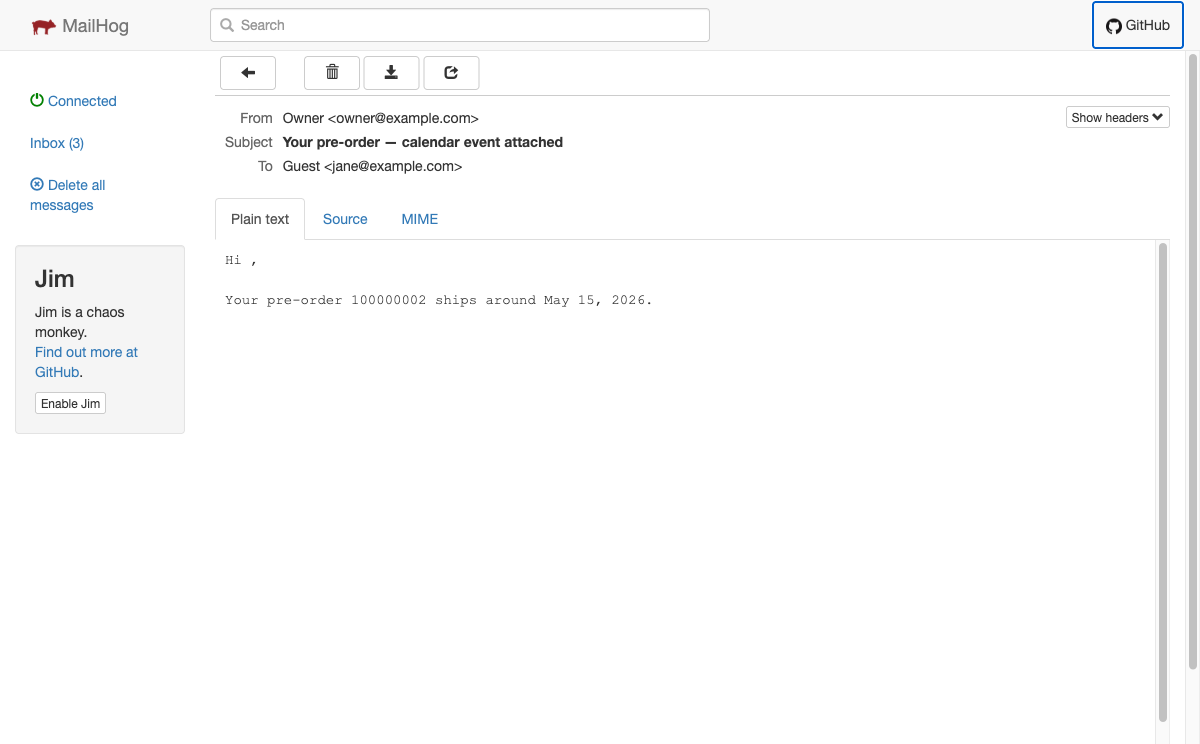
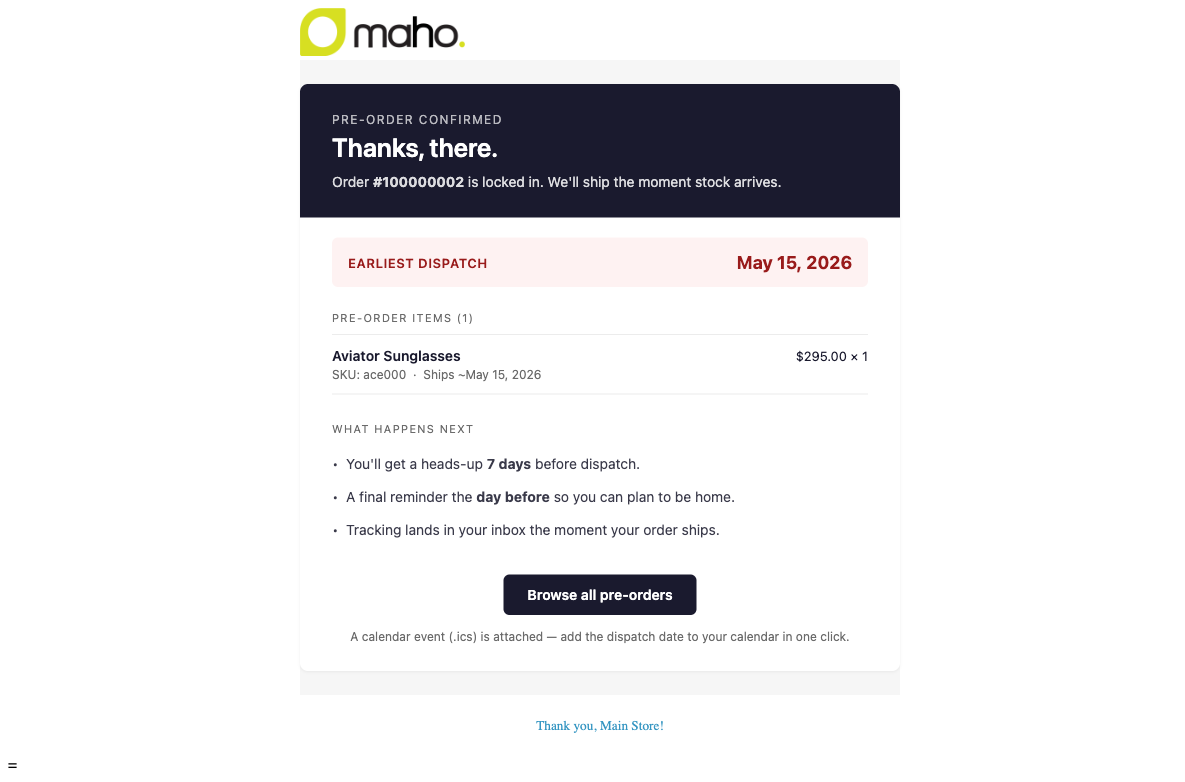
feat(email): branded HTML templates + fix cart label placement + misc polish
Email templates
- Register confirmation + reminder_7d + reminder_1d in config.xml <global/template/email>.
  Without this, loadDefault() returned an empty template and every preorder
  send fell through to the bare-text fallback.
- Rewrite all three templates with a proper hero band, dispatch callout,
  items list, "what happens next" and CTA button. Honest wording — no
  "confirm your address" promises, since the module doesn't expose an
  address-confirmation surface.
- Pre-render the items list server-side (Maho's template filter doesn't
  support {{foreach}}).
- Use the template's @subject directive and pass customer as Varien_Object
  so {{var customer.firstname}} resolves cleanly.

Cart label
- Inject the label INSIDE the product-cart-info <td> (not appended after the
  row). Uses inline HTML instead of createBlock(), which was registering an
  orphan block in the layout that parent blocks were rendering twice.
- Label itself is now a rounded chip, consistent with the PDP/category badge.

Screenshots
- Drop 00-admin-login.png and 07-order-success.png (not informative).
- Refresh 06-cart-label.png and 10-mailhog-preorder-email.png.

diff --git a/src/app/locale/en_US/template/email/preorder/confirmation.html b/src/app/locale/en_US/template/email/preorder/confirmation.html
@@ -1,21 +1,63 @@
-<!--@subject Your Pre-order Confirmation @-->
+<!--@subject Your pre-order is confirmed - ships {{var earliest_dispatch_formatted}} @-->
 <!--@vars
 {
-  "store url=\"\"":"Store Url",
-  "var customer.firstname":"Customer First Name",
+  "var customer.firstname":"Customer first name",
   "var order.increment_id":"Order ID",
-  "var earliest_dispatch_formatted":"Earliest dispatch date"
+  "var earliest_dispatch_formatted":"Earliest dispatch (formatted)",
+  "var preorder_items_count":"Number of preorder line items",
+  "var store_name":"Store name",
+  "var store_url":"Store base URL",
+  "var preorder_landing_url":"/preorder landing URL"
 }
 @-->
 {{template config_path="design/email/header"}}
 
-<table cellspacing="0" cellpadding="0" border="0" width="100%">
-<tr><td>
-<h1>Hi {{var customer.firstname}},</h1>
-<p>Thanks for your pre-order ({{var order.increment_id}}).</p>
-<p>Your earliest expected dispatch date is <strong>{{var earliest_dispatch_formatted}}</strong>.</p>
-<p>We'll notify you 7 days before, 1 day before, and the day your pre-order ships.</p>
-<p>A calendar event (.ics) is attached so you can add the dispatch date to your calendar.</p>
+<table role="presentation" cellspacing="0" cellpadding="0" border="0" width="100%" style="background:#f6f6f6;font-family:-apple-system,BlinkMacSystemFont,'Segoe UI',Helvetica,Arial,sans-serif;color:#1a1a2e;">
+<tr><td align="center">
+  <table role="presentation" cellspacing="0" cellpadding="0" border="0" width="600" style="max-width:600px;background:#ffffff;margin:24px auto;border-radius:8px;overflow:hidden;box-shadow:0 1px 3px rgba(0,0,0,0.06);">
+
+    <!-- Hero band -->
+    <tr><td style="background:#1a1a2e;color:#ffffff;padding:28px 32px;">
+      <div style="font-size:12px;letter-spacing:0.12em;text-transform:uppercase;opacity:0.7;margin-bottom:6px;">Pre-order confirmed</div>
+      <div style="font-size:26px;font-weight:600;line-height:1.2;">Thanks, {{var customer.firstname}}.</div>
+      <div style="font-size:14px;opacity:0.85;margin-top:10px;">Order <strong>#{{var order.increment_id}}</strong> is locked in. We'll ship the moment stock arrives.</div>
+    </td></tr>
+
+    <!-- Dispatch callout -->
+    <tr><td style="padding:20px 32px 0;">
+      <table role="presentation" cellspacing="0" cellpadding="0" border="0" width="100%" style="background:#fef2f2;border-radius:6px;">
+        <tr>
+          <td style="padding:14px 16px;font-size:13px;color:#991b1b;font-weight:600;letter-spacing:0.04em;text-transform:uppercase;">Earliest dispatch</td>
+          <td align="right" style="padding:14px 16px;font-size:18px;color:#991b1b;font-weight:700;">{{var earliest_dispatch_formatted}}</td>
+        </tr>
+      </table>
+    </td></tr>
+
+    <!-- Items list (rendered server-side, see Observer::onOrderPlaceAfter) -->
+    <tr><td style="padding:24px 32px 8px;">
+      <div style="font-size:11px;letter-spacing:0.12em;text-transform:uppercase;color:#6b6b6b;margin-bottom:10px;">Pre-order items ({{var preorder_items_count}})</div>
+      <table role="presentation" cellspacing="0" cellpadding="0" border="0" width="100%" style="border-top:1px solid #ececec;">
+        {{var preorder_items_html}}
+      </table>
+    </td></tr>
+
+    <!-- What happens next -->
+    <tr><td style="padding:20px 32px;">
+      <div style="font-size:11px;letter-spacing:0.12em;text-transform:uppercase;color:#6b6b6b;margin-bottom:12px;">What happens next</div>
+      <table role="presentation" cellspacing="0" cellpadding="0" border="0" width="100%" style="font-size:14px;color:#3a3a4a;line-height:1.5;">
+        <tr><td style="padding:6px 0;">&#8226;&nbsp; You'll get a heads-up <strong>7 days</strong> before dispatch.</td></tr>
+        <tr><td style="padding:6px 0;">&#8226;&nbsp; A final reminder the <strong>day before</strong> so you can plan to be home.</td></tr>
+        <tr><td style="padding:6px 0;">&#8226;&nbsp; Tracking lands in your inbox the moment your order ships.</td></tr>
+      </table>
+    </td></tr>
+
+    <!-- CTA + calendar -->
+    <tr><td align="center" style="padding:8px 32px 28px;">
+      <a href="{{var preorder_landing_url}}" style="display:inline-block;background:#1a1a2e;color:#ffffff;text-decoration:none;font-size:14px;font-weight:600;padding:12px 24px;border-radius:6px;">Browse all pre-orders</a>
+      <div style="font-size:12px;color:#6b6b6b;margin-top:14px;">A calendar event (.ics) is attached &mdash; add the dispatch date to your calendar in one click.</div>
+    </td></tr>
+
+  </table>
 </td></tr>
 </table>
 

diff --git a/src/app/locale/en_US/template/email/preorder/reminder_7d.html b/src/app/locale/en_US/template/email/preorder/reminder_7d.html
@@ -1,8 +1,53 @@
-<!--@subject Your pre-order ships in 7 days @-->
+<!--@subject Coming up - {{var product.name}} ships in 7 days @-->
+<!--@vars
+{
+  "var customer.firstname":"Customer first name",
+  "var product.name":"Product name",
+  "var product.sku":"Product SKU",
+  "var dispatch_date_formatted":"Dispatch date",
+  "var order.increment_id":"Order ID",
+  "var preorder_landing_url":"/preorder landing URL"
+}
+@-->
 {{template config_path="design/email/header"}}
 
-<h1>Hi {{var customer.firstname}},</h1>
-<p>Your pre-ordered <strong>{{var product.name}}</strong> is shipping in about 7 days ({{var dispatch_date_formatted}}).</p>
-<p>Order: {{var order.increment_id}}</p>
+<table role="presentation" cellspacing="0" cellpadding="0" border="0" width="100%" style="background:#f6f6f6;font-family:-apple-system,BlinkMacSystemFont,'Segoe UI',Helvetica,Arial,sans-serif;color:#1a1a2e;">
+<tr><td align="center">
+  <table role="presentation" cellspacing="0" cellpadding="0" border="0" width="600" style="max-width:600px;background:#ffffff;margin:24px auto;border-radius:8px;overflow:hidden;box-shadow:0 1px 3px rgba(0,0,0,0.06);">
+
+    <tr><td style="background:#1a1a2e;color:#ffffff;padding:28px 32px;">
+      <div style="font-size:12px;letter-spacing:0.12em;text-transform:uppercase;opacity:0.7;margin-bottom:6px;">7-day heads-up</div>
+      <div style="font-size:26px;font-weight:600;line-height:1.2;">Hi {{var customer.firstname}},</div>
+      <div style="font-size:14px;opacity:0.85;margin-top:10px;">Your pre-order ships in about a week.</div>
+    </td></tr>
+
+    <tr><td style="padding:24px 32px;">
+      <table role="presentation" cellspacing="0" cellpadding="0" border="0" width="100%" style="border:1px solid #ececec;border-radius:6px;">
+        <tr><td style="padding:16px;">
+          <div style="font-size:15px;font-weight:600;color:#1a1a2e;">{{var product.name}}</div>
+          <div style="font-size:12px;color:#6b6b6b;margin-top:6px;">SKU: {{var product.sku}} &nbsp;&middot;&nbsp; Order #{{var order.increment_id}}</div>
+        </td></tr>
+        <tr><td style="padding:14px 16px;background:#fef2f2;border-top:1px solid #ececec;">
+          <table role="presentation" cellspacing="0" cellpadding="0" border="0" width="100%">
+            <tr>
+              <td style="font-size:12px;color:#991b1b;font-weight:600;letter-spacing:0.04em;text-transform:uppercase;">Estimated dispatch</td>
+              <td align="right" style="font-size:16px;color:#991b1b;font-weight:700;">{{var dispatch_date_formatted}}</td>
+            </tr>
+          </table>
+        </td></tr>
+      </table>
+    </td></tr>
+
+    <tr><td style="padding:0 32px 16px;font-size:14px;color:#3a3a4a;line-height:1.5;">
+      We'll send tracking the moment it ships. If anything about your order needs to change, reply to this email and we'll sort it.
+    </td></tr>
+
+    <tr><td align="center" style="padding:8px 32px 28px;">
+      <a href="{{var preorder_landing_url}}" style="display:inline-block;background:#1a1a2e;color:#ffffff;text-decoration:none;font-size:14px;font-weight:600;padding:12px 24px;border-radius:6px;">Browse pre-orders</a>
+    </td></tr>
+
+  </table>
+</td></tr>
+</table>
 
 {{template config_path="design/email/footer"}}

diff --git a/src/app/locale/en_US/template/email/preorder/reminder_1d.html b/src/app/locale/en_US/template/email/preorder/reminder_1d.html
@@ -1,8 +1,49 @@
-<!--@subject Your pre-order ships tomorrow @-->
+<!--@subject Tomorrow - your {{var product.name}} ships @-->
+<!--@vars
+{
+  "var customer.firstname":"Customer first name",
+  "var product.name":"Product name",
+  "var product.sku":"Product SKU",
+  "var dispatch_date_formatted":"Dispatch date",
+  "var order.increment_id":"Order ID",
+  "var preorder_landing_url":"/preorder landing URL"
+}
+@-->
 {{template config_path="design/email/header"}}
 
-<h1>Hi {{var customer.firstname}},</h1>
-<p>Heads up — your pre-ordered <strong>{{var product.name}}</strong> ships tomorrow ({{var dispatch_date_formatted}}).</p>
-<p>Order: {{var order.increment_id}}</p>
+<table role="presentation" cellspacing="0" cellpadding="0" border="0" width="100%" style="background:#f6f6f6;font-family:-apple-system,BlinkMacSystemFont,'Segoe UI',Helvetica,Arial,sans-serif;color:#1a1a2e;">
+<tr><td align="center">
+  <table role="presentation" cellspacing="0" cellpadding="0" border="0" width="600" style="max-width:600px;background:#ffffff;margin:24px auto;border-radius:8px;overflow:hidden;box-shadow:0 1px 3px rgba(0,0,0,0.06);">
+
+    <tr><td style="background:#991b1b;color:#ffffff;padding:28px 32px;">
+      <div style="font-size:12px;letter-spacing:0.12em;text-transform:uppercase;opacity:0.85;margin-bottom:6px;">Ships tomorrow</div>
+      <div style="font-size:26px;font-weight:600;line-height:1.2;">Hi {{var customer.firstname}},</div>
+      <div style="font-size:14px;opacity:0.9;margin-top:10px;">Last call to confirm your delivery details.</div>
+    </td></tr>
+
+    <tr><td style="padding:24px 32px;">
+      <table role="presentation" cellspacing="0" cellpadding="0" border="0" width="100%" style="border:1px solid #ececec;border-radius:6px;">
+        <tr><td style="padding:16px;">
+          <div style="font-size:15px;font-weight:600;color:#1a1a2e;">{{var product.name}}</div>
+          <div style="font-size:12px;color:#6b6b6b;margin-top:6px;">SKU: {{var product.sku}} &nbsp;&middot;&nbsp; Order #{{var order.increment_id}}</div>
+        </td></tr>
+        <tr><td style="padding:14px 16px;background:#1a1a2e;color:#ffffff;border-top:1px solid #ececec;">
+          <table role="presentation" cellspacing="0" cellpadding="0" border="0" width="100%">
+            <tr>
+              <td style="font-size:12px;font-weight:600;letter-spacing:0.04em;text-transform:uppercase;opacity:0.85;">Dispatch</td>
+              <td align="right" style="font-size:16px;font-weight:700;">{{var dispatch_date_formatted}}</td>
+            </tr>
+          </table>
+        </td></tr>
+      </table>
+    </td></tr>
+
+    <tr><td style="padding:0 32px 24px;font-size:14px;color:#3a3a4a;line-height:1.5;">
+      Tracking will land in your inbox tomorrow once the carrier picks up. Thanks for waiting &mdash; we appreciate it.
+    </td></tr>
+
+  </table>
+</td></tr>
+</table>
 
 {{template config_path="design/email/footer"}}

diff --git a/src/skin/frontend/base/default/css/mageaustralia_preorder.css b/src/skin/frontend/base/default/css/mageaustralia_preorder.css
@@ -32,8 +32,16 @@
   margin-bottom: 16px;
 }
 .mageaustralia-preorder-cart-label {
-  display: block;
-  font-size: 12px;
+  display: inline-flex;
+  align-items: center;
+  gap: 6px;
+  margin-top: 8px;
+  padding: 3px 9px;
+  background: #fef2f2;
   color: #991b1b;
-  margin-top: 4px;
+  font-size: 11px;
+  font-weight: 600;
+  letter-spacing: 0.04em;
+  text-transform: uppercase;
+  border-radius: 10px;
 }

diff --git a/src/app/code/local/Mageaustralia/Preorder/Model/Observer.php b/src/app/code/local/Mageaustralia/Preorder/Model/Observer.php
@@ -62,14 +62,50 @@ class Mageaustralia_Preorder_Model_Observer
             return;
         }
 
-        // Cart line label
+        // Cart line label — inject INSIDE the product-cart-info <td> so it sits
+        // with the product/SKU/options, not appended after the row.
+        // Inline the HTML (no createBlock) to avoid registering an orphan block in
+        // the layout that other parents may render unexpectedly.
         if ($block instanceof Mage_Checkout_Block_Cart_Item_Renderer) {
             $item = $block->getItem();
-            if ($item->getIsPreorder()) {
-                $labelBlock = Mage::app()->getLayout()
-                    ->createBlock('mageaustralia_preorder/cart_item')
-                    ->setData('item', $item);
-                $transport->setHtml($transport->getHtml() . $labelBlock->toHtml());
+            if (!$item || !$item->getIsPreorder()) {
+                return;
+            }
+            $rawDate = $item->getPreorderAvailableDate();
+            $dateText = $rawDate ? date('M j, Y', strtotime((string) $rawDate)) : '';
+            $labelHtml = $dateText !== ''
+                ? sprintf(
+                    '<span class="mageaustralia-preorder-cart-label">%s &middot; ships ~%s</span>',
+                    Mage::helper('mageaustralia_preorder')->__('Pre-order'),
+                    htmlspecialchars($dateText, ENT_QUOTES),
+                )
+                : sprintf(
+                    '<span class="mageaustralia-preorder-cart-label">%s</span>',
+                    Mage::helper('mageaustralia_preorder')->__('Pre-order'),
+                );
+
+            $html = $transport->getHtml();
+            // Try product-cart-info td (default Maho cart theme).
+            $injected = preg_replace(
+                '/(<td[^>]*class="[^"]*product-cart-info[^"]*"[^>]*>[\s\S]*?)(<\/td>)/',
+                '$1' . $labelHtml . '$2',
+                $html,
+                1,
+            );
+            // Mini-cart fallback: insert before </a> of the product link inside <li>.
+            if ($injected === null || $injected === $html) {
+                $injected = preg_replace(
+                    '/(<li[^>]*class="[^"]*item[^"]*"[^>]*>[\s\S]*?<a[^>]*>[\s\S]*?<\/a>)/',
+                    '$1' . $labelHtml,
+                    $html,
+                    1,
+                );
+            }
+            if ($injected !== null && $injected !== $html) {
+                $transport->setHtml($injected);
+            } else {
+                // Theme doesn't match either pattern — append (legacy behaviour).
+                $transport->setHtml($html . $labelHtml);
             }
             return;
         }
@@ -219,17 +255,54 @@ class Mageaustralia_Preorder_Model_Observer
         // and all items have getPreorderAvailableDate() (filtered above).
         assert($earliest !== null);
 
-        // Build email body from template (if configured), fall back to plain text
+        // Build email body from template (if configured), fall back to plain text.
+        // NOTE: loadDefault() reads from config.xml-registered template files and
+        // does NOT set an entity_id, so checking getId() always returns 0.
+        // Use getTemplateText() to detect a successfully-loaded default template.
         $body = null;
+        $subject = null;
         /** @var Mage_Core_Model_Email_Template $tpl */
         $tpl = Mage::getModel('core/email_template');
         $tpl->loadDefault(Mageaustralia_Preorder_Model_Email_Sender::TEMPLATE_CONFIRMATION);
-        if ($tpl->getId()) {
-            $body = $tpl->getProcessedTemplate([
+        if ($tpl->getTemplateText()) {
+            // Maho's email-template filter doesn't support {{foreach}} — pre-render
+            // the items rows in PHP and pass as a single HTML var.
+            $itemsHtml = '';
+            foreach ($preorderItems as $i) {
+                $d = $i->getPreorderAvailableDate();
+                $dateText = $d ? date('M j, Y', strtotime((string) $d)) : '';
+                $itemsHtml .= sprintf(
+                    '<tr><td style="padding:12px 0;border-bottom:1px solid #ececec;">'
+                    . '<table role="presentation" cellspacing="0" cellpadding="0" border="0" width="100%%">'
+                    . '<tr>'
+                    . '<td style="font-size:14px;font-weight:600;color:#1a1a2e;">%s</td>'
+                    . '<td align="right" style="font-size:13px;color:#1a1a2e;white-space:nowrap;">%s &times; %d</td>'
+                    . '</tr>'
+                    . '<tr><td colspan="2" style="font-size:12px;color:#6b6b6b;padding-top:4px;">SKU: %s &nbsp;&middot;&nbsp; Ships ~%s</td></tr>'
+                    . '</table></td></tr>',
+                    htmlspecialchars((string) $i->getName(), ENT_QUOTES),
+                    htmlspecialchars(Mage::helper('core')->currency($i->getPrice(), true, false), ENT_QUOTES),
+                    (int) $i->getQtyOrdered(),
+                    htmlspecialchars((string) $i->getSku(), ENT_QUOTES),
+                    htmlspecialchars($dateText, ENT_QUOTES),
+                );
+            }
+            // Maho's template filter doesn't traverse nested arrays; pass scalars
+            // and Varien_Object for any structured access.
+            $vars = [
                 'order'                       => $order,
-                'customer'                    => ['firstname' => $order->getCustomerFirstname()],
+                'customer'                    => new Varien_Object(['firstname' => $order->getCustomerFirstname() ?: 'there']),
+                'preorder_items_html'         => $itemsHtml,
+                'preorder_items_count'        => count($preorderItems),
                 'earliest_dispatch_formatted' => $earliest->format('M j, Y'),
-            ]);
+                'store_name'                  => Mage::getStoreConfig('general/store_information/name', $order->getStoreId()) ?: Mage::app()->getStore($order->getStoreId())->getName(),
+                'store_url'                   => Mage::app()->getStore($order->getStoreId())->getBaseUrl(),
+                'preorder_landing_url'        => Mage::app()->getStore($order->getStoreId())->getBaseUrl() . 'preorder',
+            ];
+            $tpl->setSenderName(Mage::getStoreConfig('trans_email/ident_general/name', $order->getStoreId()));
+            $tpl->setSenderEmail(Mage::getStoreConfig('trans_email/ident_general/email', $order->getStoreId()));
+            $body = $tpl->getProcessedTemplate($vars);
+            $subject = $tpl->getProcessedTemplateSubject($vars);
         }
 
         // Get Symfony Mailer transport via Maho core helper
@@ -245,7 +318,7 @@ class Mageaustralia_Preorder_Model_Observer
         $symfonyEmail = (new SymfonyEmail())
             ->from(new Address($fromEmail, $fromName))
             ->to(new Address((string) $order->getCustomerEmail(), (string) $order->getCustomerName()))
-            ->subject('Your pre-order — calendar event attached');
+            ->subject($subject ?: 'Your pre-order is confirmed');
 
         if ($body !== null) {
             $symfonyEmail->html($body);

diff --git a/src/app/code/local/Mageaustralia/Preorder/Model/Email/Sender.php b/src/app/code/local/Mageaustralia/Preorder/Model/Email/Sender.php
@@ -31,14 +31,24 @@ class Mageaustralia_Preorder_Model_Email_Sender
         $email->setSenderEmail(Mage::getStoreConfig('trans_email/ident_general/email', $order->getStoreId()));
         $email->setTemplateSubject($email->getTemplateSubject());
 
+        $store = Mage::app()->getStore($order->getStoreId());
+
         return (bool) $email->send(
             $order->getCustomerEmail(),
             $order->getCustomerName(),
             [
                 'order'                   => $order,
-                'product'                 => ['name' => $item->getName()],
-                'customer'                => ['firstname' => $order->getCustomerFirstname()],
+                'product'                 => new Varien_Object([
+                    'name'            => $item->getName(),
+                    'sku'             => $item->getSku(),
+                    'qty'             => (int) $item->getQtyOrdered(),
+                    'price_formatted' => Mage::helper('core')->currency($item->getPrice(), true, false),
+                ]),
+                'customer'                => new Varien_Object(['firstname' => $order->getCustomerFirstname() ?: 'there']),
                 'dispatch_date_formatted' => $formatted,
+                'store_name'              => Mage::getStoreConfig('general/store_information/name', $order->getStoreId()) ?: $store->getName(),
+                'store_url'               => $store->getBaseUrl(),
+                'preorder_landing_url'    => $store->getBaseUrl() . 'preorder',
             ],
         );
     }

diff --git a/README.md b/README.md
@@ -48,13 +48,11 @@ The full smoke walkthrough captured against a fresh sample-data install:
 
 | Step | Screenshot |
 |---|---|
-| Admin login | ![Admin login](./docs/screenshots/00-admin-login.png) |
 | System config (Catalog > Preorder) | ![Admin config](./docs/screenshots/01-admin-config.png) |
 | Product edit — Preorder tab | ![Product edit](./docs/screenshots/03-admin-product-preorder-tab.png) |
 | PDP — badge + custom CTA + message | ![PDP](./docs/screenshots/04-pdp-preorder.png) |
 | Category list — badge on product card | ![Category badge](./docs/screenshots/05-category-badge.png) |
 | Shopping cart — preorder line label | ![Cart](./docs/screenshots/06-cart-label.png) |
-| Order success | ![Order success](./docs/screenshots/07-order-success.png) |
 | `/preorder` SEO landing page | ![Landing page](./docs/screenshots/08-preorder-landing.png) |
 | Mailhog inbox | ![Mailhog inbox](./docs/screenshots/09-mailhog-inbox.png) |
 | Confirmation email | ![Preorder email](./docs/screenshots/10-mailhog-preorder-email.png) |
